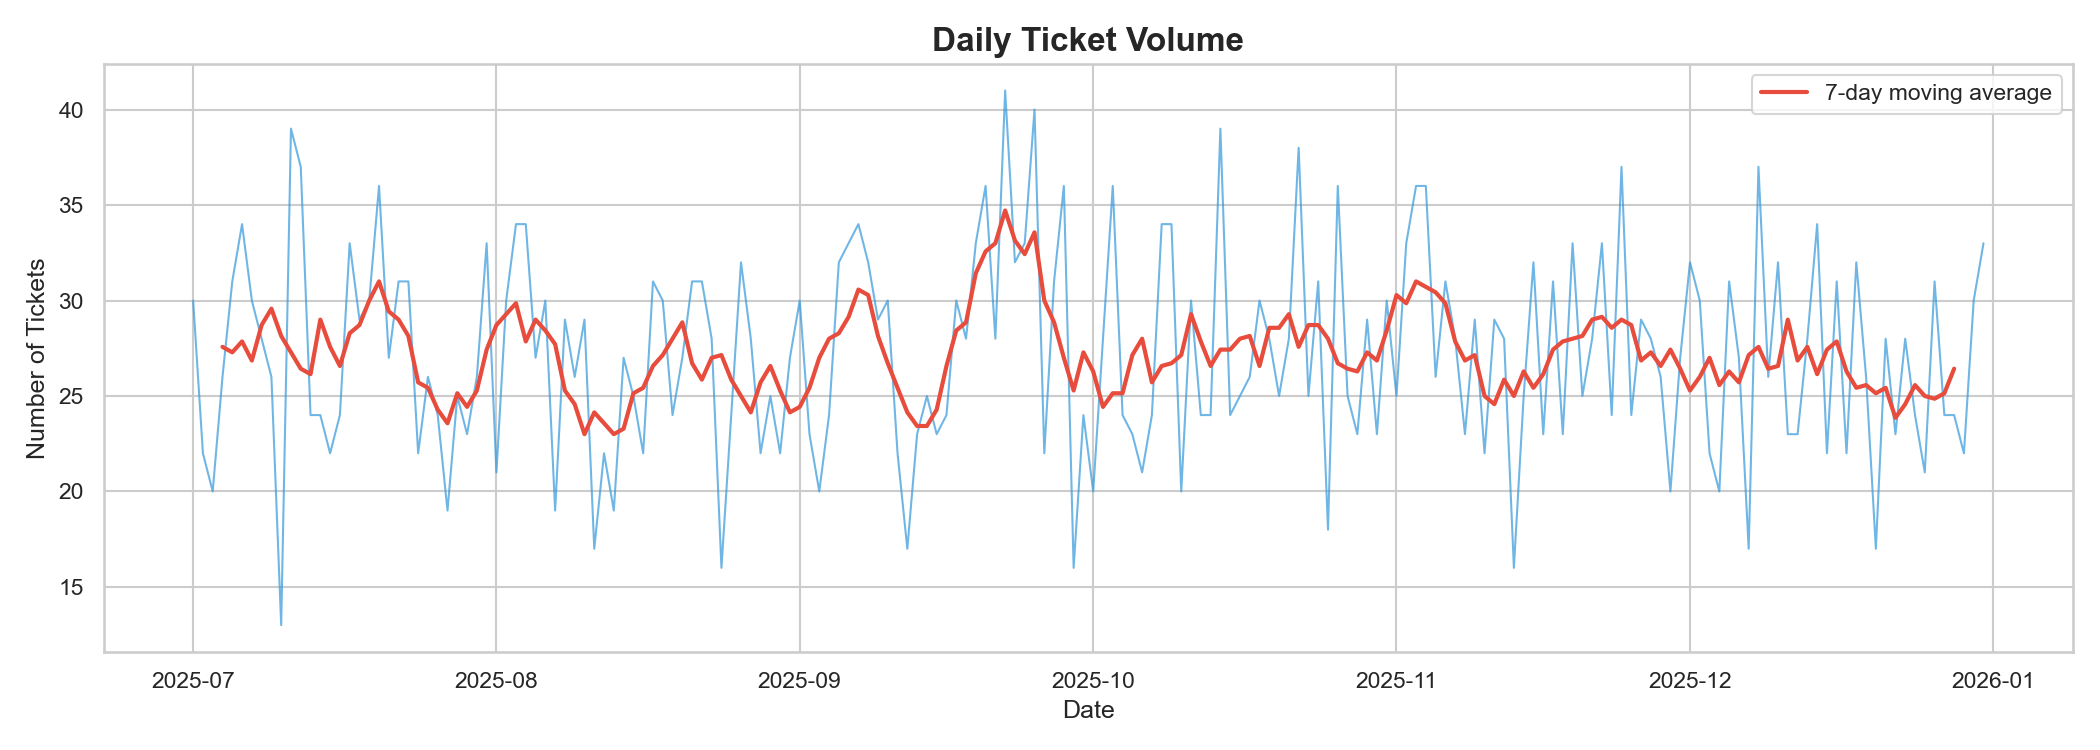
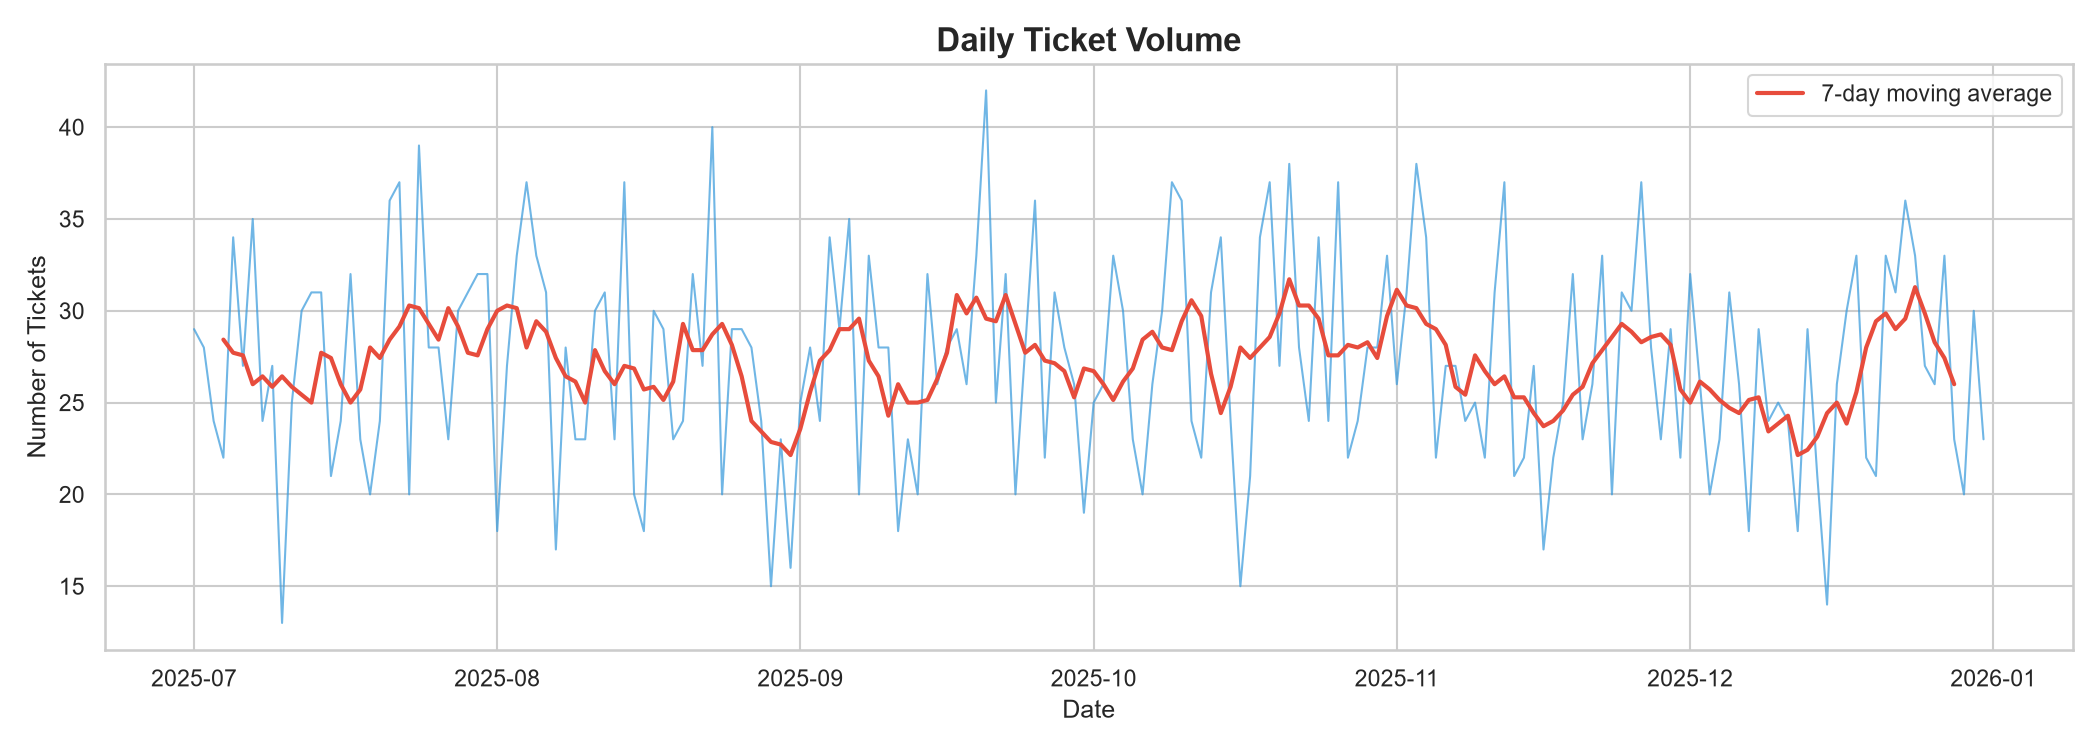
docs: rewrite README (honest numbers, env setup, smoke flag); refresh charts
- Python 3.13 venv setup, core vs optional transformer install
- replace 'production-ready' with educational/portfolio framing
- document measured accuracies (100% category, 87% priority) and label-noise ceiling
- regenerate all README charts from the text-derived-priority dataset

diff --git a/README.md b/README.md
@@ -1,10 +1,10 @@
 # AI Customer Support Ticket Classification & Auto-Reply System
 
-A production-ready ML system that automatically classifies customer support tickets, predicts priority levels, and generates intelligent auto-replies -- all running locally on CPU without any paid APIs.
+An end-to-end ML system that automatically classifies customer support tickets, predicts priority levels, and generates intelligent auto-replies -- all running locally on CPU without any paid APIs. Built as a portfolio/educational project demonstrating the full train -> serve -> log -> BI pipeline.
 
-![Python](https://img.shields.io/badge/Python-3.9+-blue?logo=python)
-![FastAPI](https://img.shields.io/badge/FastAPI-0.108-green?logo=fastapi)
-![scikit-learn](https://img.shields.io/badge/scikit--learn-1.3-orange?logo=scikit-learn)
+![Python](https://img.shields.io/badge/Python-3.13-blue?logo=python)
+![FastAPI](https://img.shields.io/badge/FastAPI-0.141-green?logo=fastapi)
+![scikit-learn](https://img.shields.io/badge/scikit--learn-1.9-orange?logo=scikit-learn)
 ![HuggingFace](https://img.shields.io/badge/HuggingFace-Transformers-yellow?logo=huggingface)
 
 ---
@@ -62,13 +62,13 @@ A production-ready ML system that automatically classifies customer support tick
 ```
 ├── data/
 │   ├── generate_dataset.py      # Synthetic data generator (5K tickets)
-│   ├── tickets.csv              # Generated dataset
-│   └── analytics_export.csv     # Power BI export
+│   ├── tickets.csv              # Generated dataset (gitignored)
+│   └── analytics_export.csv     # Power BI export (gitignored)
 ├── models/
 │   ├── train_baseline.py        # TF-IDF + Logistic Regression
-│   ├── train_transformer.py     # DistilBERT fine-tuning
+│   ├── train_transformer.py     # DistilBERT fine-tuning (optional)
 │   ├── train_priority.py        # Random Forest priority model
-│   └── saved/                   # Trained model artifacts
+│   └── saved/                   # Trained model artifacts (gitignored)
 ├── api/
 │   └── main.py                  # FastAPI REST service
 ├── utils/
@@ -77,9 +77,12 @@ A production-ready ML system that automatically classifies customer support tick
 │   ├── reply_generator.py       # Template-based auto-reply
 │   ├── analytics.py             # Analytics & visualization
 │   └── database.py              # SQLite prediction logging
+├── tests/                       # Pytest suite
+├── conftest.py                  # Makes project root importable in tests
 ├── images/                      # Charts for README
 ├── notebooks/                   # Jupyter exploration (optional)
-├── requirements.txt
+├── requirements.txt             # Core pipeline dependencies
+├── requirements-transformer.txt # Optional DistilBERT training extras
 └── README.md
 ```
 
@@ -87,34 +90,53 @@ A production-ready ML system that automatically classifies customer support tick
 
 ## Quick Start
 
-### 1. Install Dependencies
+### 1. Create an Environment (Python 3.13)
+
+```bash
+python -m venv .venv
+.venv\Scripts\activate        # Windows
+# source .venv/bin/activate   # macOS / Linux
+```
+
+### 2. Install Dependencies
 
 ```bash
 pip install -r requirements.txt
 ```
 
-### 2. Generate Dataset
+Optional, only for the DistilBERT training leg (large torch download):
+
+```bash
+pip install -r requirements-transformer.txt
+```
+
+### 3. Generate Dataset
 
 ```bash
 python data/generate_dataset.py
 ```
 
-This creates `data/tickets.csv` with 5,000 synthetic support tickets across 6 categories.
+This creates `data/tickets.csv` with 5,000 synthetic support tickets across 6 categories. Priorities are **derived from ticket content** (a security breach is Urgent, a feature request is Low), with 15% of labels shifted one level to simulate human labeling variance.
 
-### 3. Train Models
+### 4. Train Models
 
 ```bash
-# Baseline category classifier (fast -- ~10 seconds)
+# Baseline category classifier (fast -- seconds)
 python models/train_baseline.py
 
-# Priority prediction model (fast -- ~15 seconds)
+# Priority prediction model (fast -- under a minute)
 python models/train_priority.py
 
-# Transformer model (optional -- slow on CPU, ~30-60 min)
-python models/train_transformer.py
+# Transformer model (optional -- slow on CPU)
+python models/train_transformer.py --smoke   # ~5 min verification run
+python models/train_transformer.py           # full fine-tune
 ```
 
-### 4. Generate Analytics
+Note: the first run of the preprocessing pipeline downloads NLTK
+corpora (`punkt`, `punkt_tab`, `stopwords`, `wordnet`); afterwards they
+are cached locally and no network is needed.
+
+### 5. Generate Analytics
 
 ```bash
 python utils/analytics.py
@@ -122,13 +144,13 @@ python utils/analytics.py
 
 Produces charts and exports `data/analytics_export.csv` for Power BI.
 
-### 5. Start API Server
+### 6. Start API Server
 
 ```bash
 uvicorn api.main:app --reload --port 8000
 ```
 
-### 6. Test API
+### 7. Test API
 
 ```bash
 # Health check
@@ -142,16 +164,34 @@ curl -X POST http://localhost:8000/predict \
 
 Or visit **http://localhost:8000/docs** for the interactive Swagger UI.
 
+### Run Tests
+
+```bash
+pytest
+```
+
+The suite covers preprocessing, the dataset generator (determinism +
+text-priority correlation), the reply templates, the SQLite logging
+layer, and the FastAPI endpoints (via `TestClient`, including the
+graceful-degradation path when model files are missing).
+
 ---
 
 ## Models
 
-| Model | Task | Algorithm | Speed |
-|-------|------|-----------|-------|
-| **Baseline** | Category Classification | TF-IDF + Logistic Regression | Fast (10s train) |
-| **Transformer** | Category Classification | DistilBERT Fine-tuned | Slow (30-60min CPU) |
-| **Priority** | Priority Prediction | TF-IDF + Random Forest | Fast (15s train) |
-| **Reply** | Auto-Reply Generation | Template + Rule-Based | Instant |
+| Model | Task | Algorithm | Test Accuracy | Notes |
+|-------|------|-----------|---------------|-------|
+| **Baseline** | Category Classification | TF-IDF + Logistic Regression | **100%** | Synthetic templates are keyword-separable |
+| **Priority** | Priority Prediction | TF-IDF + Random Forest | **87%** | Learns real signals ("hacked account" -> Urgent); ~85% label-noise ceiling |
+| **Transformer** | Category Classification | DistilBERT Fine-tuned | ~baseline | Optional comparison leg; cannot beat a perfect baseline |
+| **Reply** | Auto-Reply Generation | Template + Rule-Based | deterministic | Keyword-aware, priority-aware |
+
+Honest caveats: because the dataset is synthetic, category separation is
+trivial (100%) and the transformer comparison is mostly a demonstration
+of the training loop -- real ticket data would show a meaningful gap.
+The priority task is learnable but capped near the injected label-noise
+rate, which is intentional: it produces realistic confusion (Urgent
+recall 0.52) instead of fake perfection.
 
 ### Categories
 - Billing Issue
@@ -172,7 +212,7 @@ Or visit **http://localhost:8000/docs** for the interactive Swagger UI.
 |--------|----------|-------------|
 | `POST` | `/predict` | Classify ticket + predict priority + generate reply |
 | `GET` | `/health` | System health and model status |
-| `GET` | `/analytics` | Aggregate prediction analytics |
+| `GET` | `/analytics` | Aggregate prediction analytics (from logged predictions) |
 | `GET` | `/history` | Recent prediction history |
 
 ### Example Response
@@ -181,10 +221,14 @@ Or visit **http://localhost:8000/docs** for the interactive Swagger UI.
 {
   "category": "Billing Issue",
   "priority": "High",
-  "reply": "Dear Customer, Thank you for reaching out regarding your billing concern...",
-  "timestamp": "2025-07-15T10:30:00"
+  "reply": "This has been marked as a high-priority issue.  \n\nHello,  \n\nWe appreciate you bringing this billing issue to our attention regarding the charge of $49.99. ...",
+  "timestamp": "2026-09-16T10:30:00"
 }
 ```
+
+If model artifacts are missing, the API degrades gracefully:
+`/predict` returns `"category": "Unknown (model not loaded)"` and
+`"priority": "Medium"` instead of crashing.
 
 ---
 
@@ -200,14 +244,15 @@ The `data/analytics_export.csv` includes:
 
 ## Tech Stack
 
-- **Python 3.9+**
+- **Python 3.13**
 - **scikit-learn** -- TF-IDF, Logistic Regression, Random Forest
-- **HuggingFace Transformers** -- DistilBERT fine-tuning
+- **HuggingFace Transformers** -- DistilBERT fine-tuning (optional)
 - **FastAPI** -- REST API framework
 - **SQLite** -- Prediction logging database
 - **Pandas / NumPy** -- Data processing
 - **Matplotlib / Seaborn** -- Visualization
 - **NLTK** -- Text preprocessing
+- **Pytest** -- Test suite
 
 ---
 
